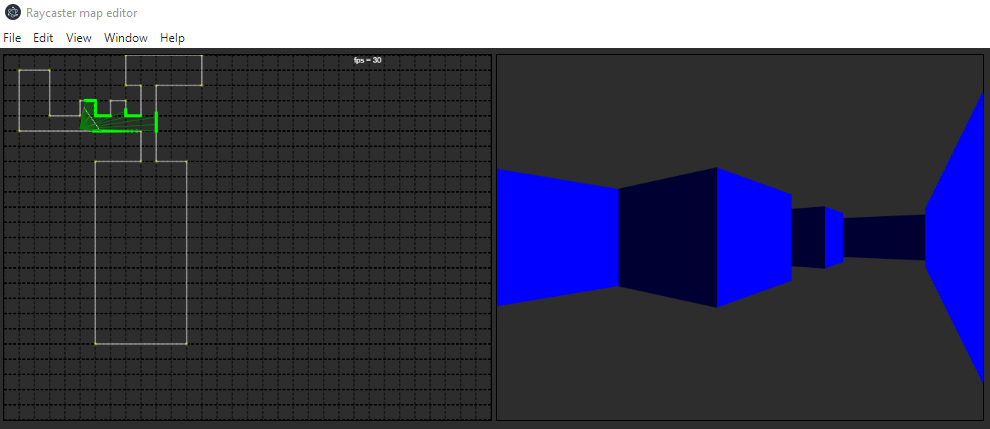
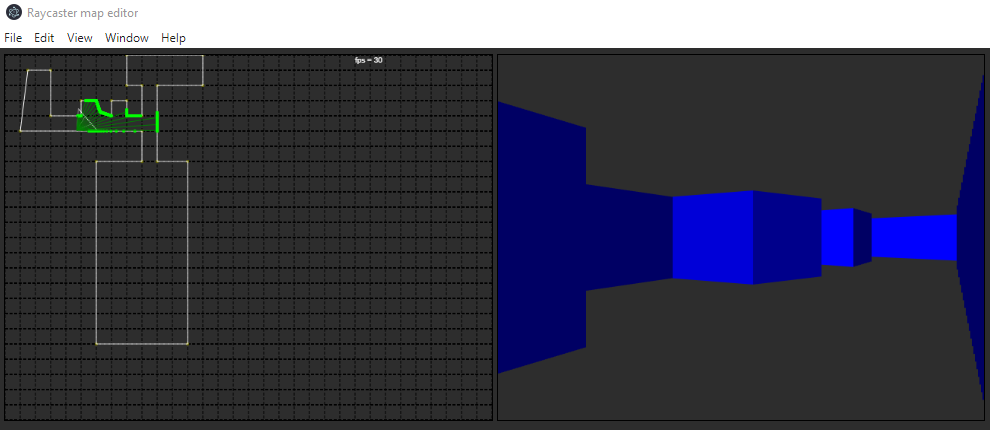
luminosity of wall depends on slope of intercepted edge ([100,255])

diff --git a/src/renderer3d.ts b/src/renderer3d.ts
@@ -1,3 +1,4 @@
+import { atan } from 'mathjs';
 import { RayHit } from './geometry';
 import { ILineSegment, slope } from './lineSegment';
 import * as raycaster from './raycaster';
@@ -26,7 +27,7 @@ export class Renderer3d {
                     let height = this.convertDistanceToWallHeight(hit.distance || this.horizonDistance);
                     let startRow = (this.canvas.height - height)/2;
                     let endRow = (this.canvas.height + height)/2;
-                    let color = this.determineLight(hit);
+                    let color = determineLight(hit);
     
                     // draw wall
                     this.drawRect(this.context, [[this.mapToColumn(column), startRow], [this.mapToColumn(column+1), endRow]], `rgb(0,0,${color})`);
@@ -41,18 +42,6 @@ export class Renderer3d {
             });
         }
     };
-
-    private determineLight = (hit: RayHit) => {
-        let color = 50;
-        if (hit?.edge) {
-            let m = Math.abs(slope([hit.edge.start.vector, hit.edge.end.vector]));
-            if (!isFinite(m)) return color;
-            
-            color += (255 - color) * 1-Math.exp(-m);
-            //color = isFinite(m) && m < 1 ? 255 : 100;
-        }
-        return color;
-    }
 
     private convertDistanceToWallHeight = (d: number) => {
         return (10/d) * this.canvas.height;
@@ -83,4 +72,15 @@ export class Renderer3d {
         context.strokeStyle = color;
         context.stroke();
     };
+}
+
+export const determineLight = (hit: RayHit) => {
+    let color = 100;
+    if (hit?.edge) {
+        let m = Math.abs(slope([hit.edge.start.vector, hit.edge.end.vector]));            
+        if (!isFinite(m)) return 255;
+        
+        color += (m / (1 + m)) * (255-color);
+    }
+    return color;
 }

diff --git a/src/renderer3d.test.ts b/src/renderer3d.test.ts
@@ -1,0 +1,12 @@
+import { determineLight } from './renderer3d';
+import { Vector } from './vector';
+import { makeEdge } from './vertex';
+describe('renderer3d tests', () => {
+    describe('light intensity tests', () => {  
+        const test = (e: [Vector, Vector]) => determineLight({edge: makeEdge(...e), distance: 0, intersection: null, polygon: null, ray: null});
+        it('horizontal edge => 100', () => expect(test([[0,0],[1,0]])).toBe(100));
+        it('vertical edge => 255', () => expect(test([[0,0],[0,1]])).toBe(255));
+        it('edge with slope 1 => ', () => expect(test([[0,0],[1,1]])).toBe(100+(255-100)/2));
+        it('edge with slope -1', () => expect(test([[0,1],[1,0]])).toBe(100+(255-100)/2));
+    });
+});

diff --git a/src/renderer.ts b/src/renderer.ts
@@ -29,7 +29,7 @@ let world: World = {
     geometry: createGeometry([
         //[[20,20],[20,460],[620,460],[620,20]],    
         // [[100,180],[180,300],[460,300],[460,180]],
-         [[20,20],[60,20],[60,80],[100,80],[100,60],[120,60],[120,80],[140,80],[140,60],[160,60],[160,80],[180,80],[180,40],[160,40],[160,0],[260,0],[260,40],[200,40],[200,140],[240,140],[240,380],[120,380],[120,140],[180,140],[180,100],[20,100]]
+         [[30,20],[60,20],[60,80],[100,80],[100,60],[120,60],[125,75],[140,80],[140,60],[160,60],[160,80],[180,80],[180,40],[160,40],[160,0],[260,0],[260,40],[200,40],[200,140],[240,140],[240,380],[120,380],[120,140],[180,140],[180,100],[20,100]]
     ]),
     selection: []
 };

diff --git a/src/vertex.ts b/src/vertex.ts
@@ -11,6 +11,7 @@ export type IStoredGeometry = IEntity & { polygons: IStoredPolygon[]};
 export type IGeometry = { polygons: IPolygon[]};
 
 const makeVertex = (v: vector.Vector): IVertex => ({vector: v});
+export const makeEdge = (v: vector.Vector, u: vector.Vector): IEdge => ({start: makeVertex(v), end: makeVertex(u)});
 const isVertex = (v: IVertex|vector.Vector): v is IVertex => (v as IVertex).vector !== undefined;    
 const giveIdentity = <T extends IEntity>(e : T): T => e.id ? e : ({...e, id: Guid.create()});
 const getVector = (vertexOrVector: IVertex|vector.Vector): vector.Vector => isVertex(vertexOrVector) ? vertexOrVector.vector : vertexOrVector;
